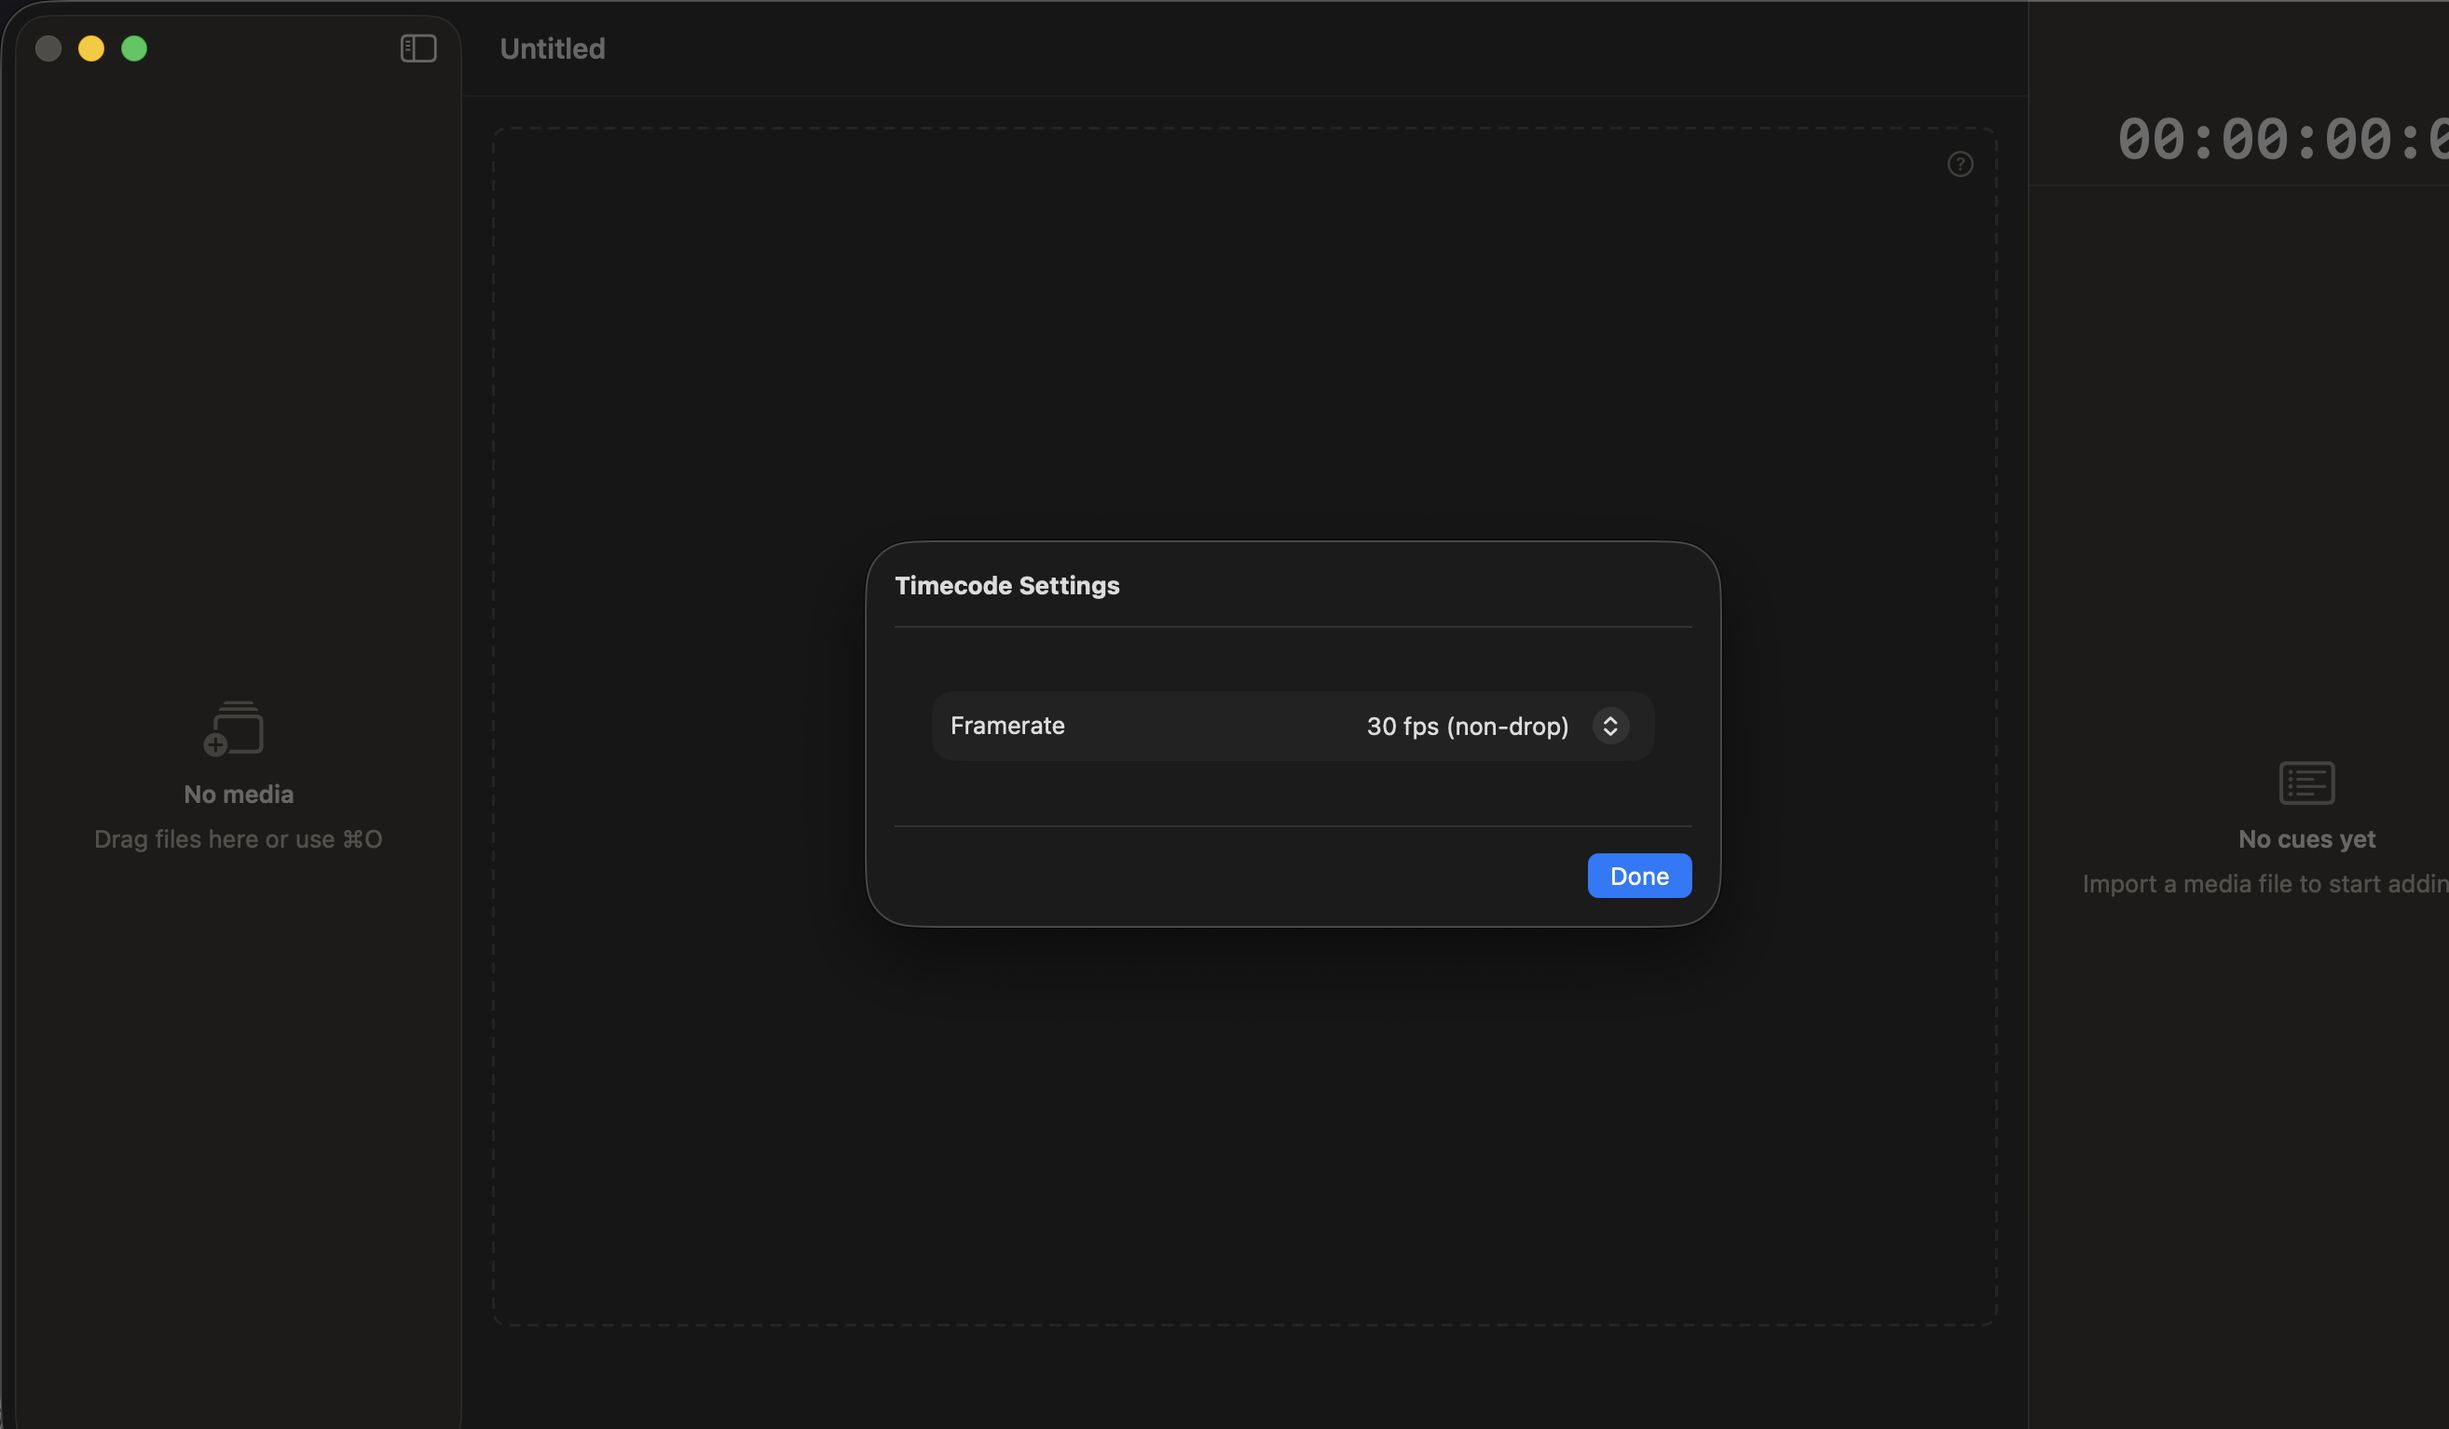
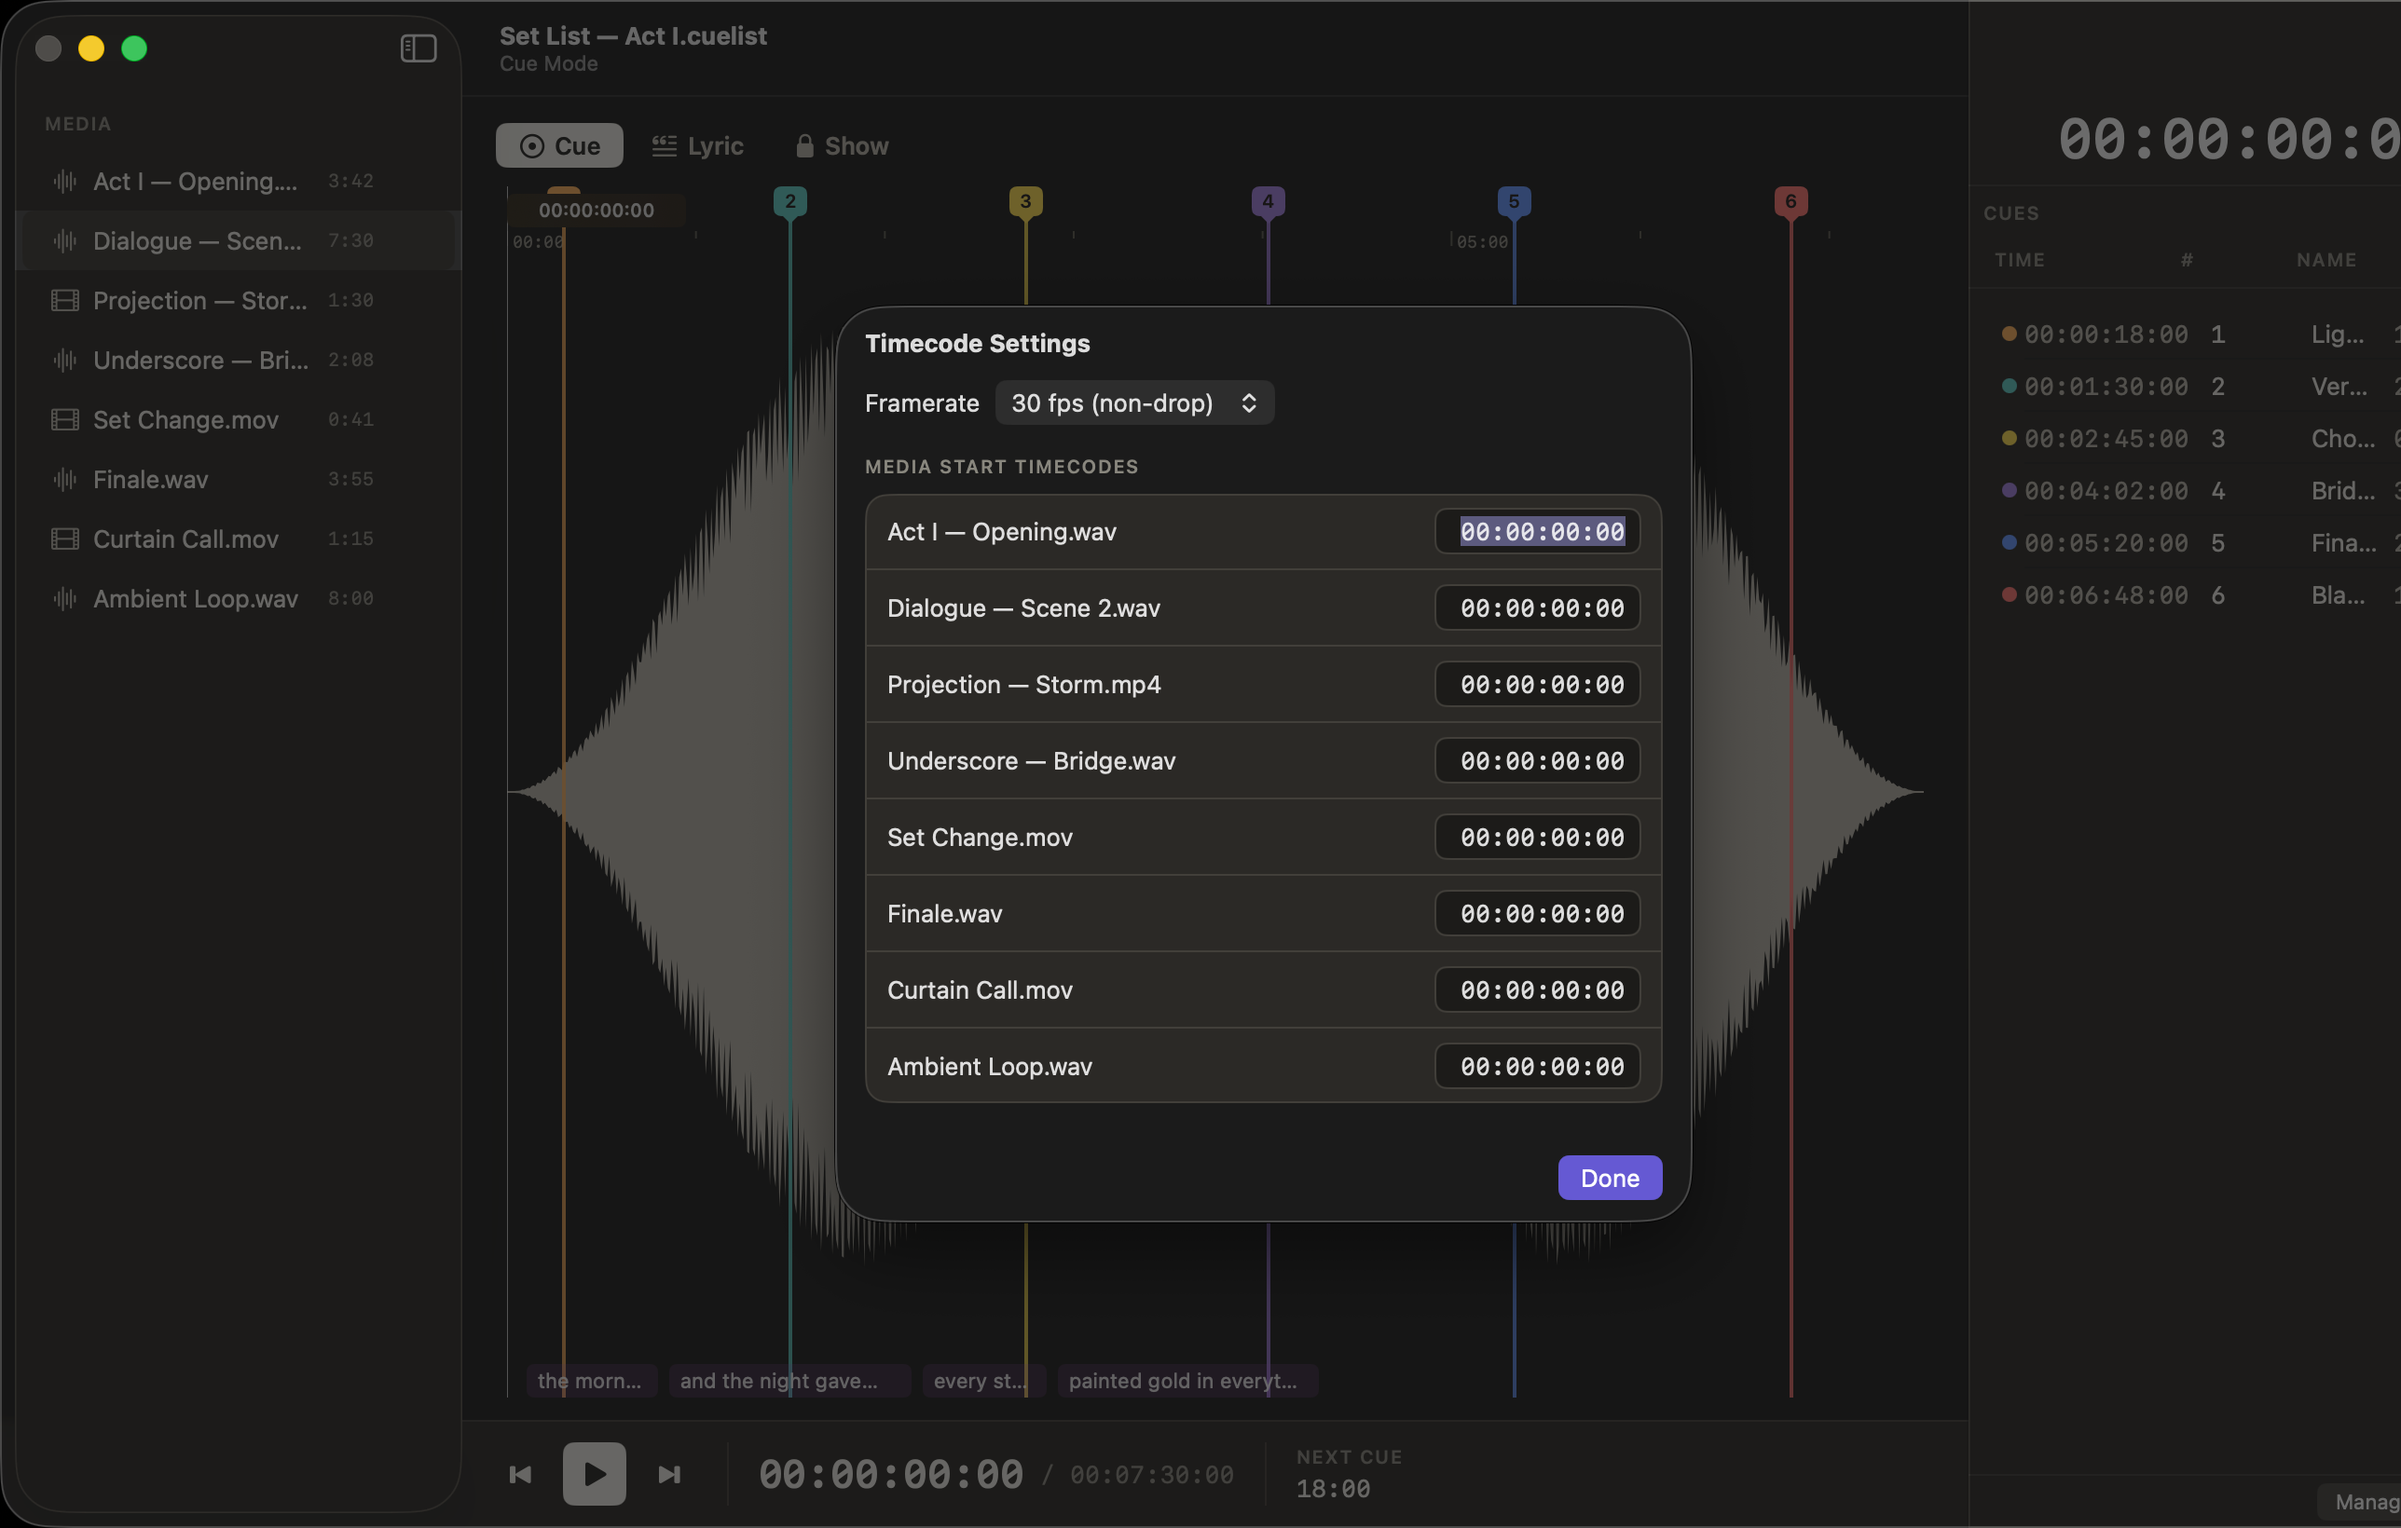
refactor(ui): rebuild Timecode Settings sheet to Figma card layout
Match TimecodeSettingsSheet to Figma 321:2279, replacing the grouped Form:
- header band + a bare 'Framerate' label + popup row (no form grouping)
- 'MEDIA START TIMECODES' header above a panel card whose media rows are
  separated by in-card dividers
- MediaTimecodeRow drops its leading icon and gives the HH:MM:SS:FF field a
  sunken bordered box (red border on invalid)
- Done is a .borderedProminent accent button; the header/footer dividers are
  gone (flat sheet)

Identifiers preserved (timecodeSettingsSheet, timecodeFrameratePicker,
timecodeSheetItemList, startTimecodeField). The screenshot test now opens a
seeded document so the baseline shows the media card.

diff --git a/OnlyCue/UI/TimecodeSettingsSheet.swift b/OnlyCue/UI/TimecodeSettingsSheet.swift
@@ -19,46 +19,75 @@ struct TimecodeSettingsSheet: View {
     }
 
     var body: some View {
-        VStack(alignment: .leading, spacing: 14) {
+        VStack(alignment: .leading, spacing: 0) {
             Text("Timecode Settings")
                 .font(.headline)
-            Divider()
-            Form {
-                Picker("Framerate", selection: $framerate) {
-                    ForEach(SMPTEFramerate.allCases) { rate in
-                        Text(rate.displayName).tag(rate)
-                    }
-                }
-                .accessibilityIdentifier("timecodeFrameratePicker")
-                .onChange(of: framerate) { _, _ in commitFramerate() }
+                .frame(maxWidth: .infinity, alignment: .leading)
+                .padding(.horizontal, DS.Space.lg)
+                .padding(.vertical, DS.Space.md)
 
+            VStack(alignment: .leading, spacing: DS.Space.lg) {
+                framerateRow
                 if !document.model.items.isEmpty {
-                    Section("Media start timecodes") {
-                        ForEach(document.model.items) { item in
-                            MediaTimecodeRow(
-                                item: item,
-                                framerate: framerate,
-                                onCommit: { frames in commitStartTimecode(itemID: item.id, frames: frames) }
-                            )
-                        }
-                    }
+                    mediaSection
                 }
             }
-            .formStyle(.grouped)
-            .accessibilityIdentifier("timecodeSheetItemList")
+            .padding(.horizontal, DS.Space.lg)
+            .padding(.bottom, DS.Space.lg)
 
-            Divider()
-            HStack {
-                Spacer()
-                Button("Done") {
-                    dismiss()
-                }
-                .keyboardShortcut(.defaultAction)
-            }
+            footer
         }
-        .padding()
         .frame(width: 460)
         .accessibilityIdentifier("timecodeSettingsSheet")
+    }
+
+    private var framerateRow: some View {
+        HStack(spacing: DS.Space.sm) {
+            Text("Framerate").font(DS.Text.body)
+            Picker("Framerate", selection: $framerate) {
+                ForEach(SMPTEFramerate.allCases) { rate in
+                    Text(rate.displayName).tag(rate)
+                }
+            }
+            .labelsHidden()
+            .frame(width: 150)
+            .accessibilityIdentifier("timecodeFrameratePicker")
+            .onChange(of: framerate) { _, _ in commitFramerate() }
+            Spacer()
+        }
+    }
+
+    private var mediaSection: some View {
+        VStack(alignment: .leading, spacing: DS.Space.sm) {
+            Text("Media Start Timecodes").dsSectionHeader()
+            VStack(spacing: 0) {
+                ForEach(Array(document.model.items.enumerated()), id: \.element.id) { index, item in
+                    if index > 0 { DS.Color.border.frame(height: 1) }
+                    MediaTimecodeRow(
+                        item: item,
+                        framerate: framerate,
+                        onCommit: { frames in commitStartTimecode(itemID: item.id, frames: frames) }
+                    )
+                }
+            }
+            .frame(maxWidth: .infinity, alignment: .leading)
+            .background(RoundedRectangle(cornerRadius: DS.Radius.xl, style: .continuous).fill(DS.Color.panel))
+            .overlay(RoundedRectangle(cornerRadius: DS.Radius.xl, style: .continuous).strokeBorder(DS.Color.border, lineWidth: 1))
+            .clipShape(RoundedRectangle(cornerRadius: DS.Radius.xl, style: .continuous))
+            .accessibilityIdentifier("timecodeSheetItemList")
+        }
+    }
+
+    private var footer: some View {
+        HStack {
+            Spacer()
+            Button("Done") { dismiss() }
+                .buttonStyle(.borderedProminent)
+                .tint(DS.Color.cueIndigo)
+                .keyboardShortcut(.defaultAction)
+        }
+        .padding(.horizontal, DS.Space.lg)
+        .padding(.vertical, DS.Space.md)
     }
 
     private func commitFramerate() {

diff --git a/OnlyCue/UI/MediaTimecodeRow.swift b/OnlyCue/UI/MediaTimecodeRow.swift
@@ -16,24 +16,31 @@ struct MediaTimecodeRow: View {
     @State private var isInvalid: Bool = false
 
     var body: some View {
-        HStack(spacing: 8) {
-            Image(systemName: item.media.kind == .video ? "video" : "music.note")
-                .foregroundStyle(.secondary)
+        HStack(spacing: DS.Space.sm) {
             Text(item.resolvedName)
+                .font(DS.Text.body)
                 .lineLimit(1)
                 .truncationMode(.middle)
-            Spacer()
+            Spacer(minLength: DS.Space.sm)
+            // Bordered HH:MM:SS:FF field (Figma 321:2292) — a sunken box with a
+            // hairline border that turns red on invalid input.
             TextField("HH:MM:SS:FF", text: $draft)
+                .textFieldStyle(.plain)
                 .font(.body.monospaced())
-                .frame(width: 110)
                 .multilineTextAlignment(.trailing)
+                .padding(.horizontal, DS.Space.sm)
+                .padding(.vertical, DS.Space.xs)
+                .frame(width: 110)
+                .background(RoundedRectangle(cornerRadius: DS.Radius.sm).fill(DS.Color.surfaceSunken))
                 .overlay(
-                    RoundedRectangle(cornerRadius: 4)
-                        .stroke(isInvalid ? Color.red : Color.clear, lineWidth: 1)
+                    RoundedRectangle(cornerRadius: DS.Radius.sm)
+                        .stroke(isInvalid ? Color.red : DS.Color.border, lineWidth: 1)
                 )
                 .onSubmit { commit() }
                 .accessibilityIdentifier("startTimecodeField")
         }
+        .padding(.horizontal, DS.Space.md)
+        .padding(.vertical, DS.Space.sm)
         .onAppear { syncDraftFromItem() }
         .onChange(of: item.startTimecodeFrames) { _, _ in syncDraftFromItem() }
         .onChange(of: framerate) { _, _ in syncDraftFromItem() }

diff --git a/OnlyCueUITests/TimecodeSettingsSheetScreenshotTests.swift b/OnlyCueUITests/TimecodeSettingsSheetScreenshotTests.swift
@@ -29,27 +29,30 @@ final class TimecodeSettingsSheetScreenshotTests: XCTestCase {
 
     private func runTimecodeSettingsCapture(appearance: String?, screenshotName: String) throws {
         let app = XCUIApplication()
-        app.launchArguments += ["-ApplePersistenceIgnoreState", "YES"]
+        // Seed a document with media so the sheet shows its "Media start
+        // timecodes" card (Figma 321:2279) — the handler opens the doc, so no ⌘N.
+        app.launchArguments += ["-ApplePersistenceIgnoreState", "YES", SeedKey.setListActI.launchArgument]
         if let appearance {
             app.launchArguments += ["--ui-test-appearance=\(appearance)"]
         }
         app.launch()
-        app.typeKey("n", modifierFlags: .command)
 
         XCTAssertTrue(
-            app.buttons["importMediaButton"].waitForExistence(timeout: 10),
-            "a document window should open within 10 seconds"
+            app.descendants(matching: .any).matching(identifier: "itemRow").firstMatch.waitForExistence(timeout: 15),
+            "the seeded document's media should load within 15 seconds"
         )
 
         Foregrounding.activateRobustly(app)
 
         let toolsMenu = app.menuBars.menuBarItems["Tools"]
-        XCTAssertTrue(toolsMenu.waitForExistence(timeout: 2))
+        XCTAssertTrue(toolsMenu.waitForExistence(timeout: 3))
         toolsMenu.click()
         let item = app.menuItems["Timecode Settings…"]
-        XCTAssertTrue(item.waitForExistence(timeout: 2))
+        XCTAssertTrue(item.waitForExistence(timeout: 3))
         item.click()
 
+        let mediaCard = app.descendants(matching: .any).matching(identifier: "timecodeSheetItemList").firstMatch
+        _ = mediaCard.waitForExistence(timeout: 3)
         // Fixed delay so the sheet animates in before the screenshot fires.
         Thread.sleep(forTimeInterval: 1.2)
 
